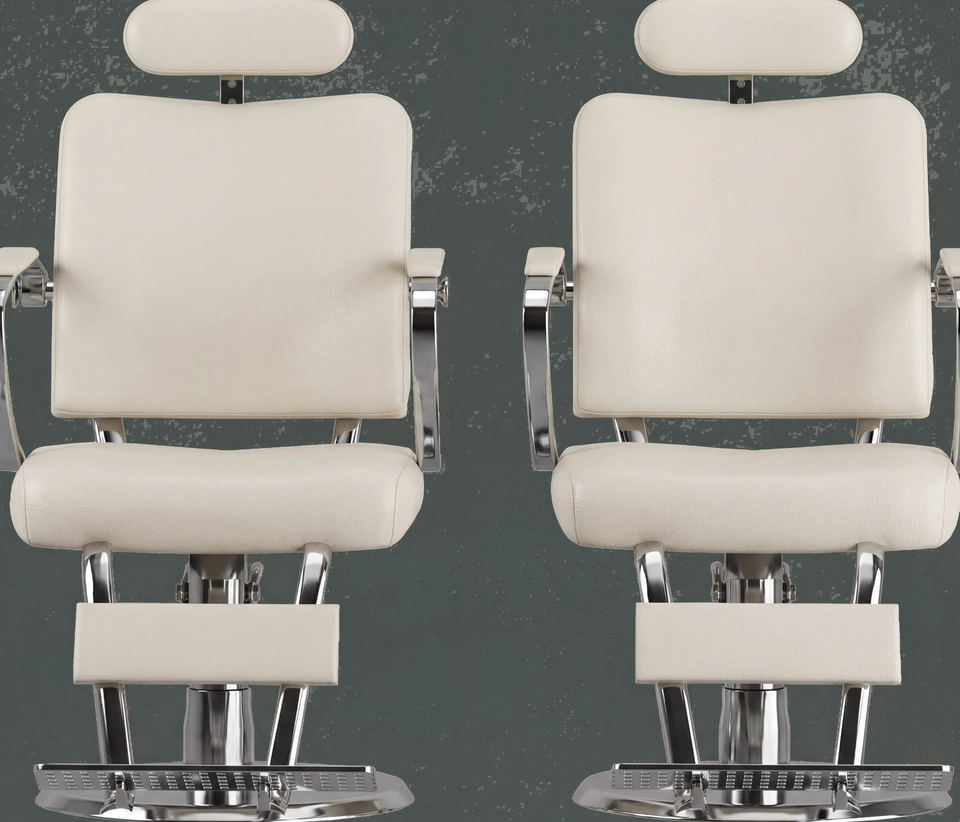
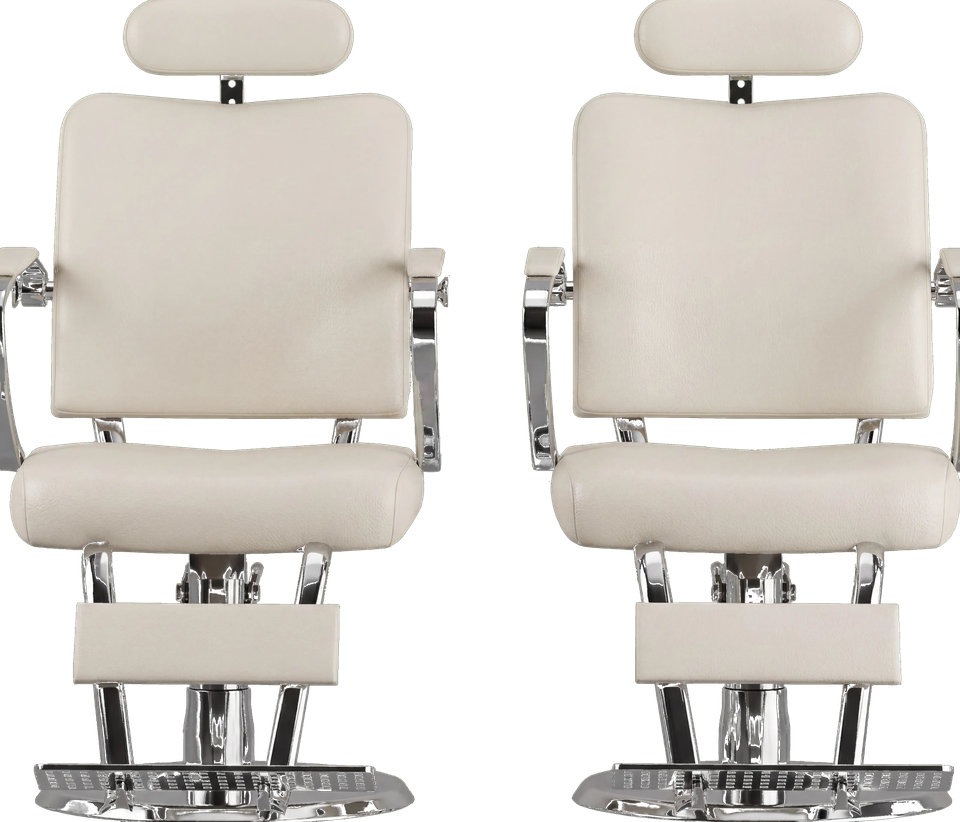
Salon chairs: fix studio backdrop keying (not chroma green)
Source is gray-green studio wall, not bright green screen — old
ge>42 key removed 0% background. Use corner distance smoothstep + chair
subject protect, despill, premultiply. Rebake salon-chairs.png (~38%
transparent). Version p6V1N9X4-v2.

diff --git a/src/constants/loungeSceneAssets.ts b/src/constants/loungeSceneAssets.ts
@@ -18,7 +18,7 @@ export const LOUNGE_BACKGROUND_SRC = `/assets/landing2-background.png?v=${LOUNGE
 export const LOUNGE_ROSE_BACKGROUND_SRC = LOUNGE_BACKGROUND_SRC;
 
 /** Bump when re-baking `salon-chairs.png` (`npm run lounge:bake-salon-chairs`). */
-export const LOUNGE_SALON_CHAIRS_ASSET_VERSION = 'p6V1N9X4-v1';
+export const LOUNGE_SALON_CHAIRS_ASSET_VERSION = 'p6V1N9X4-v2';
 
 export const LOUNGE_SALON_CHAIRS_SRC_REMOTE =
   'https://hyycomvcaqxxvyrfupes.supabase.co/storage/v1/object/public/live-preview/LP%20Images/p6V1N9X4lJoobnaRmSFSh_WE2x57MV.jpeg';
